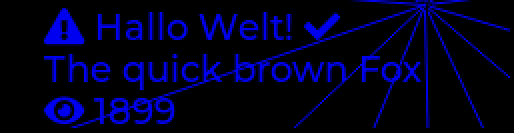
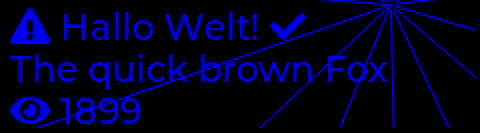
add rect() function to draw rectangles

diff --git a/firmware/lib/frame_buffer.c b/firmware/lib/frame_buffer.c
@@ -52,9 +52,58 @@ uint8_t getPixel(unsigned x, unsigned y)
 	return p & 0x0F;
 }
 
-// set all pixels of a layer to a color
-void setAll(uint8_t shade)
+// set all pixels to a shade
+void fill(uint8_t shade)
 {
 	shade |= shade << 4;
 	memset(g_frameBuff, shade, DISPLAY_WIDTH * DISPLAY_HEIGHT / 2);
+}
+
+// Draw one horizontal line with a certain shade (fast, no checks)
+static void hLine(unsigned x1, unsigned x2, unsigned y, uint8_t shade)
+{
+	uint8_t shade_ = (shade << 4) | shade;
+	uint8_t *p = &g_frameBuff[x1 / 2 + y * (DISPLAY_WIDTH / 2)];
+
+	if (x1 & 0x01) {
+		*p++ = (*p & 0xF0) | shade;  // set lower nibble
+		x1++;
+	}
+
+	unsigned len = (x2 - x1 + 1) / 2;
+	memset(p, shade_, len);
+
+	if ((x2 & 0x01) == 0) {
+		p += len;
+		*p = (*p & 0x0F) | (shade << 4);  // set upper nibble
+	}
+}
+
+static void swap(unsigned *a, unsigned *b)
+{
+	unsigned t = *a;
+	*a = *b;
+	*b = t;
+}
+
+void rect(unsigned x1, unsigned y1, unsigned x2, unsigned y2, uint8_t shade)
+{
+	shade &= 0x0F;
+
+	if (x1 >= DISPLAY_WIDTH)
+		x1 = DISPLAY_WIDTH - 1;
+	if (x2 >= DISPLAY_WIDTH)
+		x2 = DISPLAY_WIDTH - 1;
+	if (y1 >= DISPLAY_HEIGHT)
+		y1 = DISPLAY_HEIGHT - 1;
+	if (y2 >= DISPLAY_HEIGHT)
+		y2 = DISPLAY_HEIGHT - 1;
+
+	if (x1 > x2)
+		swap(&x1, &x2);
+	if (y1 > y2)
+		swap(&y1, &y2);
+
+	for (unsigned row=y1; row<=y2; row++)
+		hLine(x1, x2, row, shade);
 }

diff --git a/firmware/demo.c b/firmware/demo.c
@@ -46,7 +46,7 @@ void drawLasers()
 	static unsigned n_lines=8, x=64, y=16;
 	int dx = 0, dy = 0;
 
-	setAll(0);
+	fill(0);
 
 	if (frm % 400 == 0) {
 		n_lines = RAND_AB(3, 16);  // number of lines
@@ -63,12 +63,14 @@ void drawLasers()
 
 	char chars[32] = {0xef, 0x81, 0xae, 0x20};
 
-	int bla = cos1(alpha * 16) * DISPLAY_WIDTH / 32768 / 4 + DISPLAY_WIDTH / 8;
-	int blu = cos1(alpha * 9) * DISPLAY_HEIGHT / 32768 / 4;
+	int bla = cos1(alpha * 10) * DISPLAY_WIDTH / 32768 / 4 + DISPLAY_WIDTH / 8;
+	int blu = cos1(alpha * 16) * DISPLAY_HEIGHT / 32768 / 4;
 
-	draw_str(LV_SYMBOL_WARNING " Hallo Welt! " LV_SYMBOL_OK "\nThe quick brown Fox", bla, blu);
+	draw_str(LV_SYMBOL_WARNING " Hallo Welt! " LV_SYMBOL_OK "\nThe qwjck brown Fox", bla, blu);
 	itoa(frm, chars + 4, 10);
 	draw_str(chars, bla, 45);
+
+	rect(5, 5, 33, 48, 1);
 
 	alpha += 10;
 	frm++;

diff --git a/firmware/lib/frame_buffer.h b/firmware/lib/frame_buffer.h
@@ -13,6 +13,9 @@ void addPixel(unsigned x, unsigned y, uint8_t shade);
 uint8_t getPixel(unsigned x, unsigned y);
 
 // Set whole screen to fixed shade
-void setAll(uint8_t shade);
+void fill(uint8_t shade);
+
+// Draw a rectangle from (x1, y1) to (x2, y2)
+void rect(unsigned x1, unsigned y1, unsigned x2, unsigned y2, uint8_t shade);
 
 #endif

diff --git a/sdl_sim/test.c b/sdl_sim/test.c
@@ -64,6 +64,7 @@ int main(int argc, char* args[])
 		}
 
 		drawLasers();
+
 		send_fb();
 		SDL_Delay(20);
 	}
